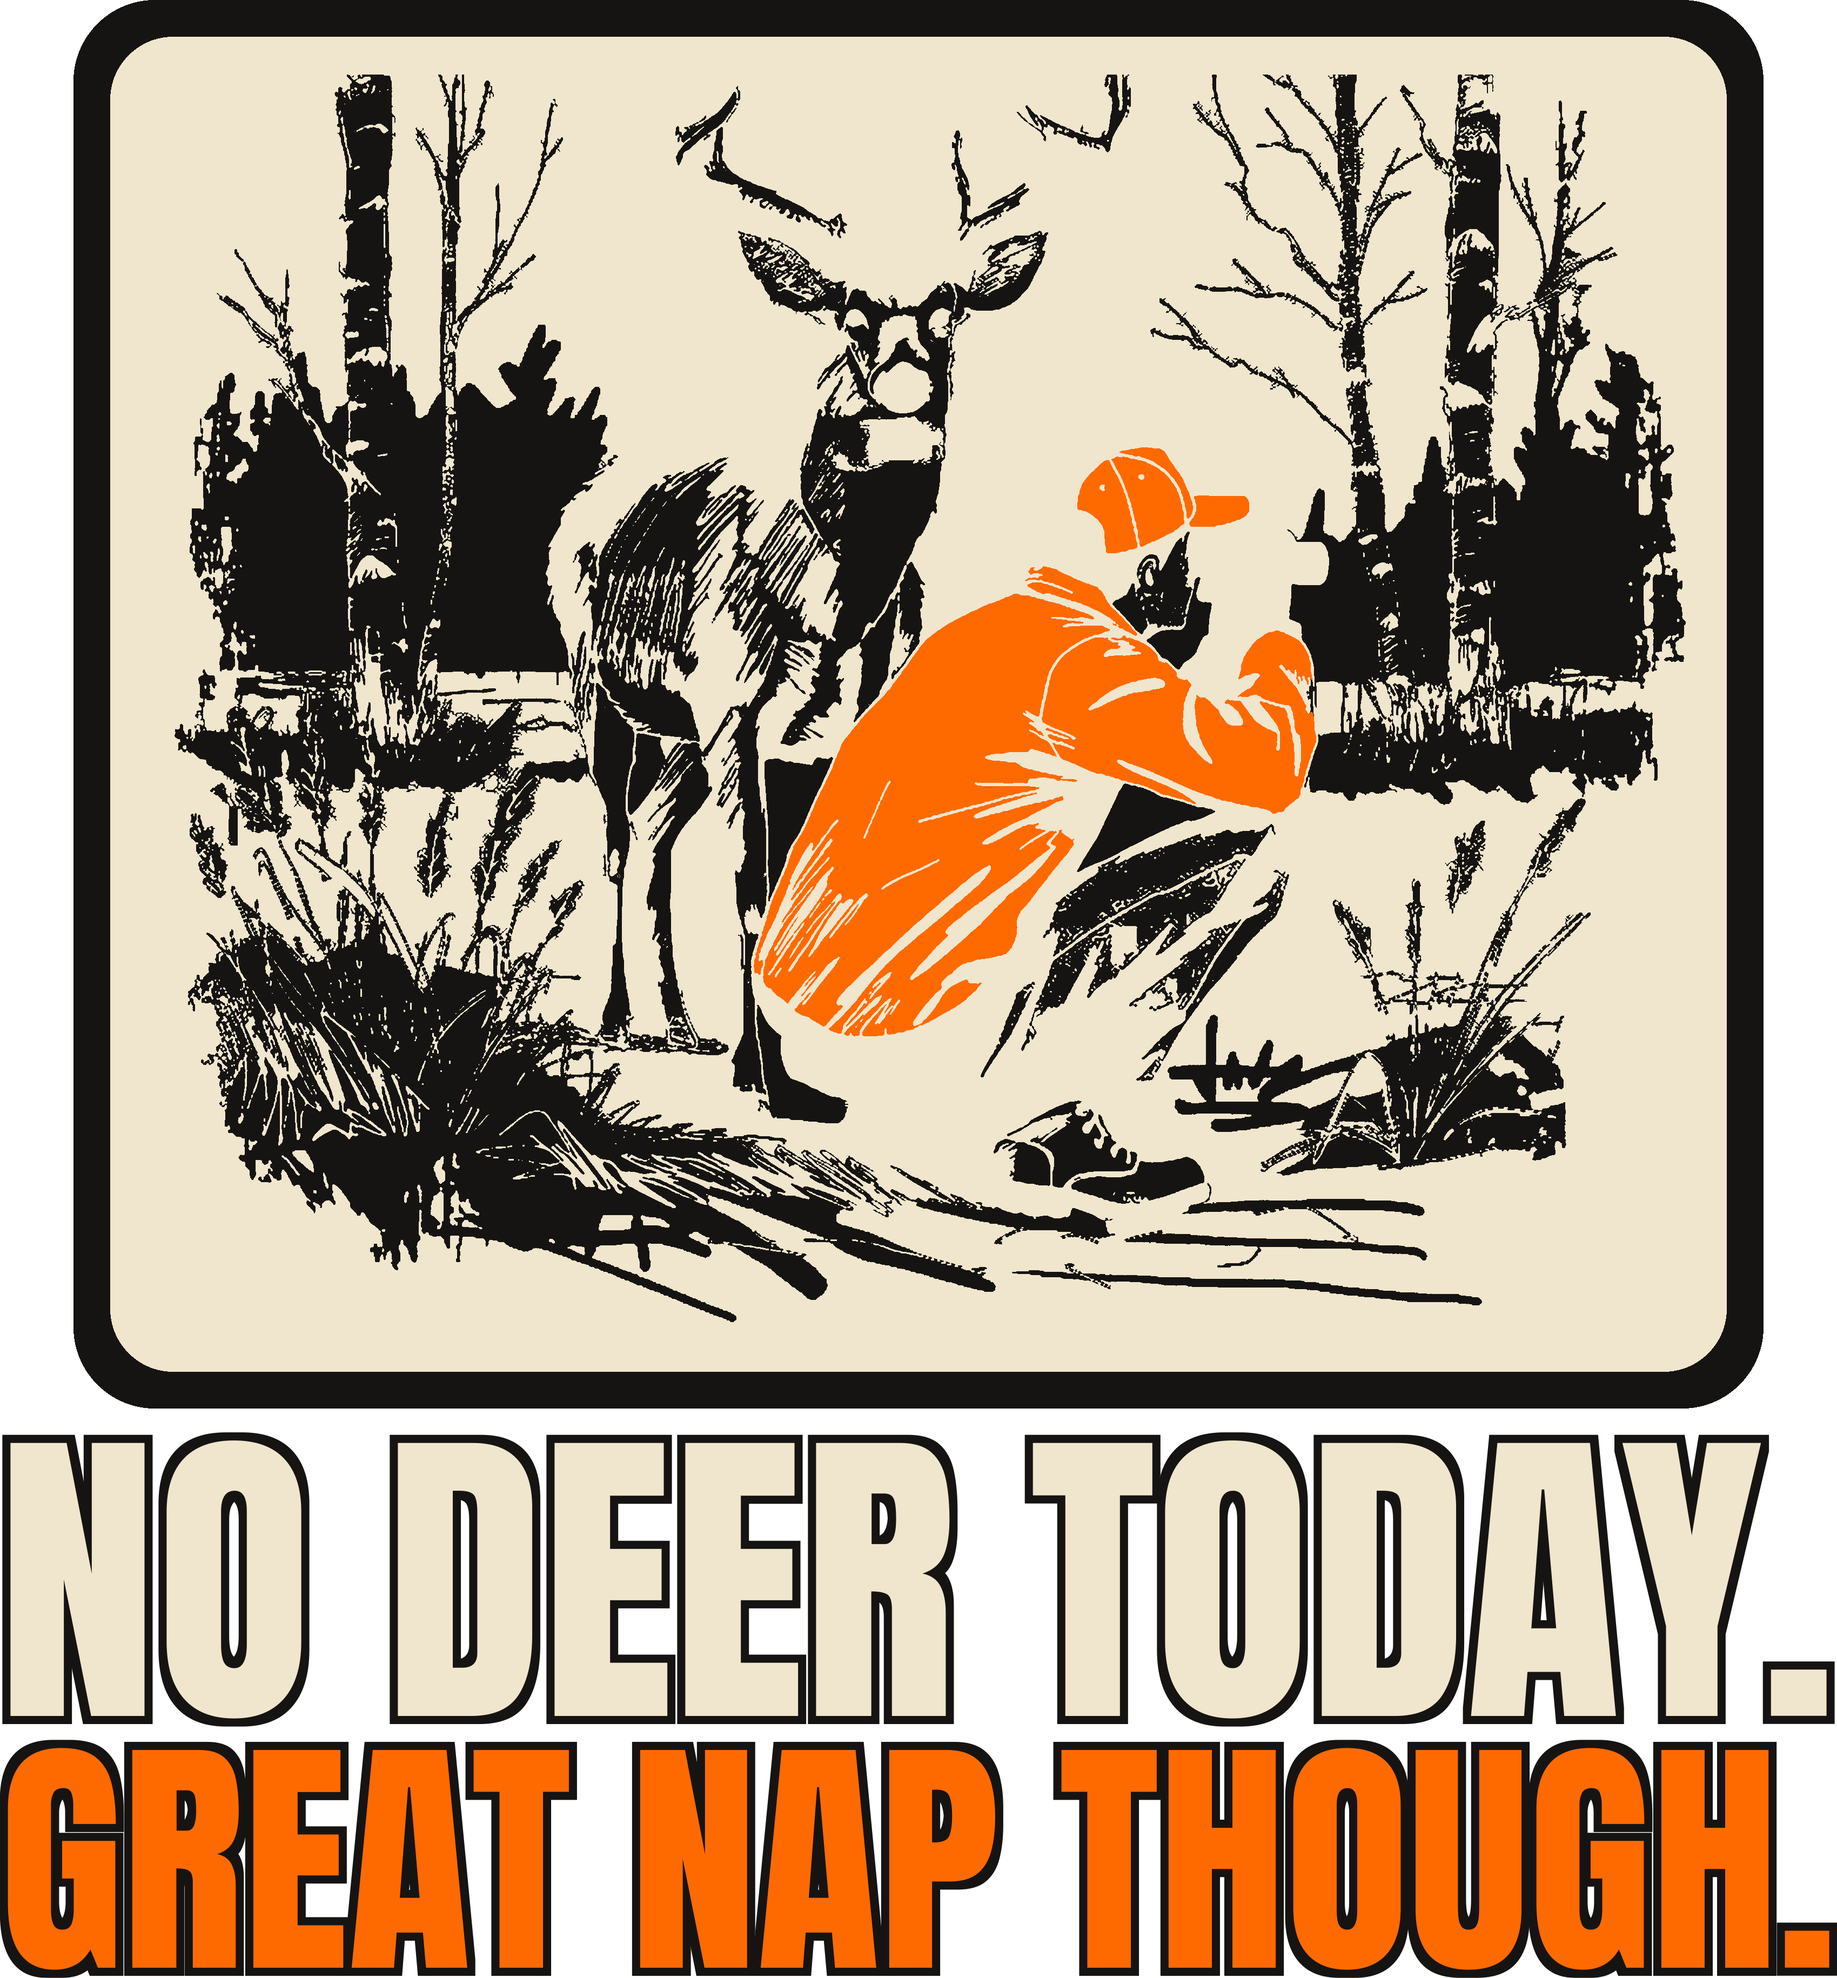
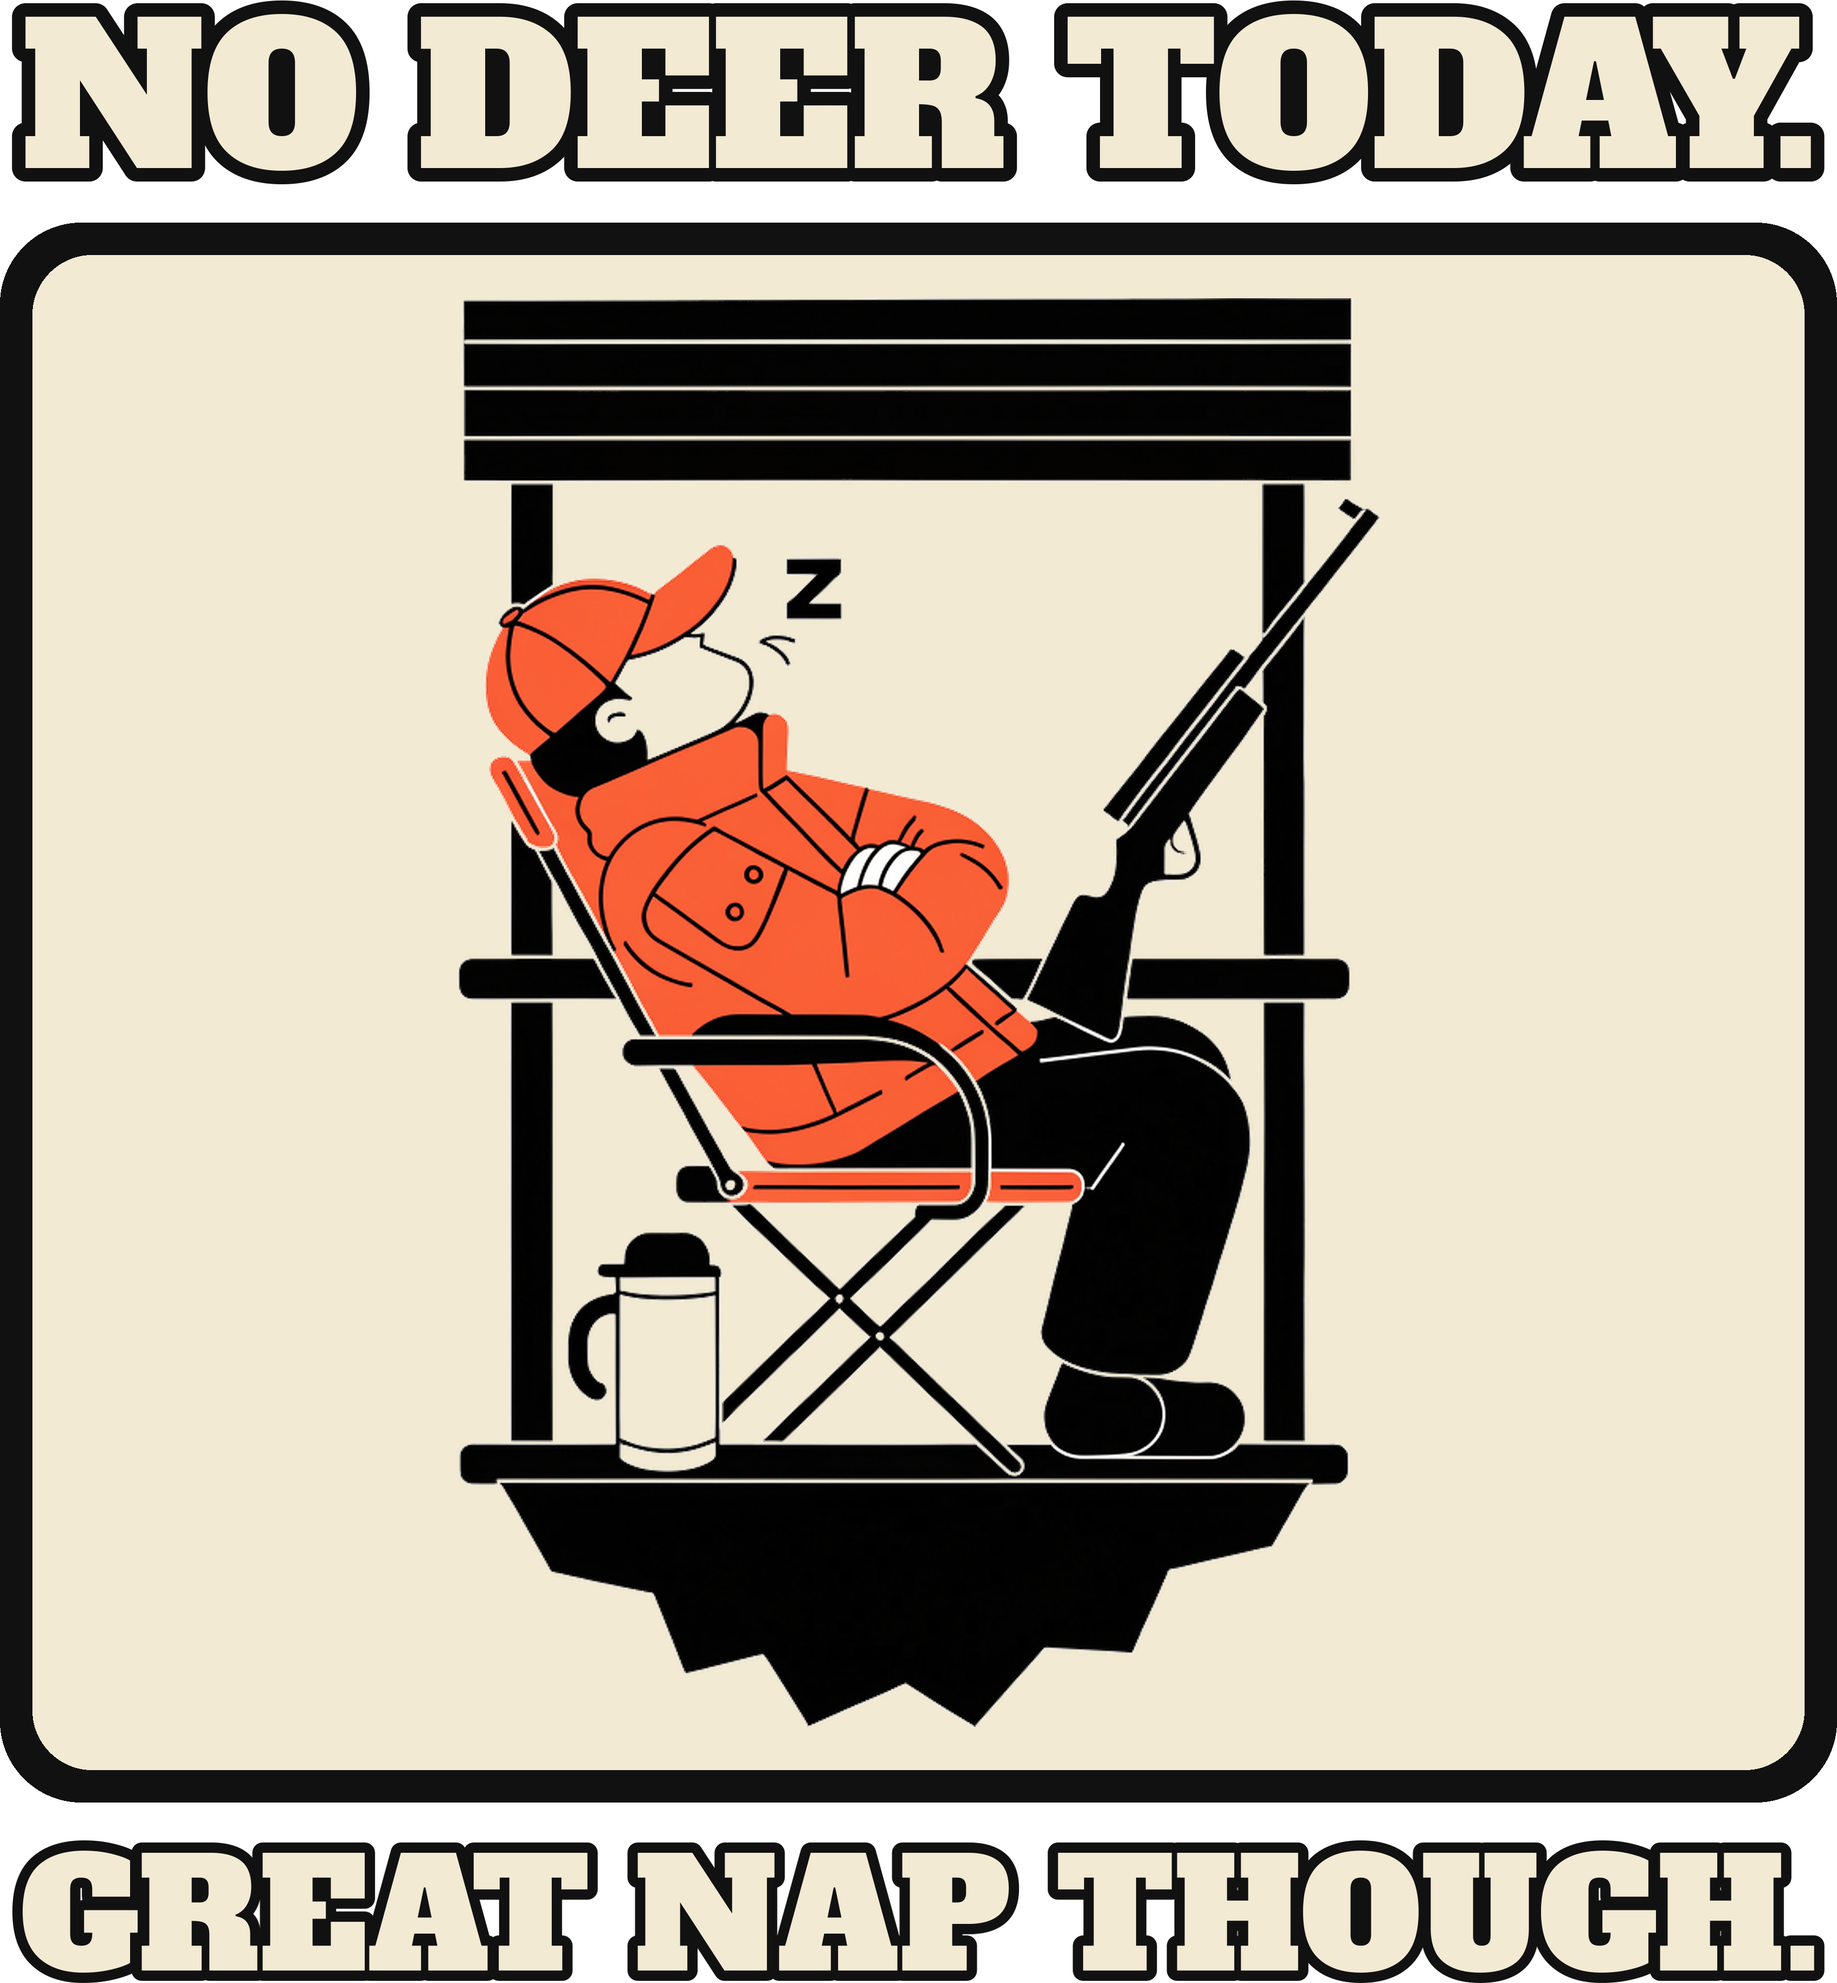
[B] review 866 No Deer Today camo hoodie

diff --git a/docs/pipeline/866-camo-redo-no-deer-today.md b/docs/pipeline/866-camo-redo-no-deer-today.md
@@ -1,4 +1,4 @@
-status: REDO
+status: REVIEW
 lane: B
 type: redo
 id: 866
@@ -24,3 +24,4 @@ push: camo
 - 2026-10-21 08:50 UTC [B]: REDO to the R11.13 patch standard, IN PLACE on the live product (same handle, URL and collections, stays ACTIVE). Print = the old live art re-inked by designs/camo_patch.py (print-prep only; no Recraft call, the fal wallet is exhausted, 403 'Exhausted balance'): hunter in orange and the buck (light tan art filled to black silhouettes) reduced to 3 solid inks (black, bone, blaze orange; no halftone, distress or earth tones) on ONE solid bone patch with a ~0.2 in black outline; lettering NO DEER TODAY. (bone) / GREAT NAP THOUGH. (blaze orange) in Anton with a solid dark keyline, widths (7h) 3392 / 3402 px (punch 100.3%), patch narrower than the lettering. FW 1500 TOP 0, clear of the pouch. New punch line per brief. R7.7: Black Camo + Forest Camo x XS-3XL = 14/14 synced on default file 1090998036, back logo 1080398177 on 14/14. Mockups remade for both colors, phone-size read OK; media replaced in place and attached per color; copy rewritten against the new art (no cream backing line), docs/review/866.jpg shows Forest + Black. Duck Camo is not added where the product did not already sell it (adding variants was not part of this redo). Cohesion audit --handle PASS (0 warn).
 - 2026-10-21 09:40 UTC director: REDO. 1. R5.3.4 (the art never argues with the line): the print says NO DEER TODAY. / GREAT NAP THOUGH. but the patch shows a big buck standing right behind a hunter who is crouched, awake and glassing. Either way the line loses: there IS a deer, and nobody is napping. Fix the art, not the line: the hunter asleep (slumped in a ground blind or stand chair, cap over his eyes, rifle or bow leaning beside him) with NO deer, or with a buck walking off behind him only if the line changes to say so. One Recraft call when fal is back (patch standard, 3 inks), or PARK until then. 2. Keep the type as is (GREAT NAP THOUGH. the widest blaze line).
 - 2026-10-21 10:00 UTC [B]: 09:40 REDO NOT DONE, blocked: the art must show the hunter asleep (cap over his eyes, rifle leaning) with no deer, which needs one new Recraft flat call, and the fal wallet is exhausted (403 'Exhausted balance'); print-prep cannot draw a sleeping hunter. The type stays as is (GREAT NAP THOUGH. the widest blaze line, already so). Left as REDO for the first run after a fal top-up; the live product keeps the 08:50 patch print meanwhile.
+- 2026-10-21 13:55 UTC [B]: REDO 2 done IN PLACE (fal back: one Recraft flat call, $0.04, first try accepted). Art now shows the hunter ASLEEP in a folding chair in a tree stand, cap down over his eyes, arms crossed, rifle leaning on the rail, thermos at his boot, small z, NO deer anywhere; 3 inks (black, blaze orange, white) on ONE bone patch with ~0.2 in black outline (scripts/b-camo-lockup.py, --top: NO DEER TODAY. above the patch, GREAT NAP THOUGH. below, Alfa Slab bone with dark keyline; in-place camo redo keeps the face). Widths (7h) headline 3355 px / punch 3355 px = 100%. Subject 1706 of 3400 px = 50% of the lockup (7l), patch 3400x2924, type 606 of 3670 px. FW 1500 TOP 0. R7.7: 14/14 on 1091127902, back logo 1080398177 on 14/14 (Black Camo + Forest Camo x XS-3XL). Mockups remade for both colors and replaced in place (alts kept), phone-size read OK on Black and Forest. Copy rewritten noun by noun against the sleeping hunter (line one: the print's words + who + what); SEO meta updated; title unchanged (the line is unchanged). Handle added to retired-covers.json (AI cover showed the old buck print). Cohesion audit --handle PASS (0 warn). docs/review/866.jpg shows Black, Forest, back. Duck Camo not added (not sold on this product; not part of this redo).

diff --git a/docs/intake-log.md b/docs/intake-log.md
@@ -1,4 +1,5 @@
 RUNNING lane B since 2026-10-21 13:35 UTC
+2026-10-21 13:55 UTC — [B] REVIEW #866 Men's Hunting No Deer Today Camo Hoodie (REDO 2, in place, sleeping hunter, no deer, 14/14 on 1091127902, punch 100% of headline). fal $0.04.
 2026-10-21 13:27 UTC — [E] Builder run end: #827 and #836 in REVIEW (AOP pilots 2 and 3 of 3). fal wallet empty again (403 on the second call), so READY new-art #723 #745 #748 #749 #751 #752 wait for a top-up; Essentials #852-858 still gated on the #851 director call. Lock released.
 RUNNING director since 2026-10-21 13:24 UTC
 2026-10-21 13:27 UTC — [E] REVIEW #836 Men's Camo Hide & Seek Champion. All-Over Print Zip Hoodie (DRAFT 15372316803376, Printful 483676605, 11/11 synced, punch 104% of headline, a hidden Bigfoot per panel, cover retired). fal $0.04; fal wallet empty again (403).
